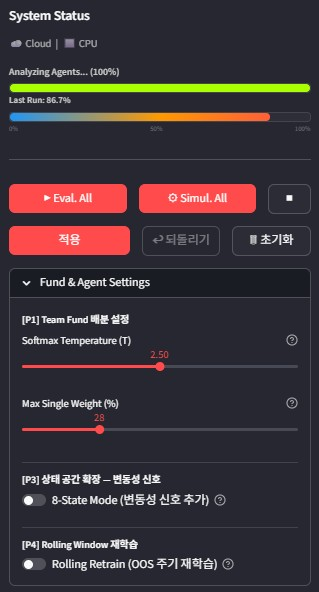
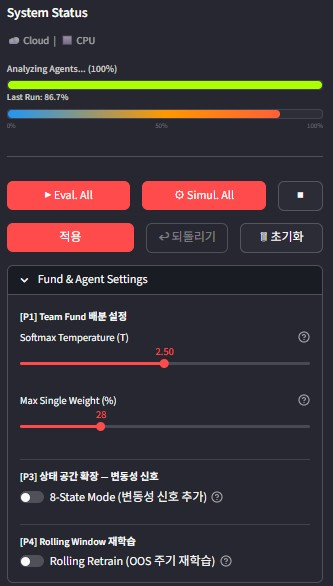
Captures, Readme 수정

diff --git a/README.md b/README.md
@@ -6,6 +6,17 @@
 
 ---
 
+### RL 포트폴리오 성과 모니터링 대시보드 (웹 앱 전체 화면)
+
+![전체화면창](Captures/전체화면창.jpg)
+
+- **배포 링크** : https://task-constrained-rl-coldstartysv1-1-azz5zvkw3zr9he2qcx2pze.streamlit.app/
+- 좌측 사이드바에서 전역 하이퍼파라미터(학습률·감가율·탐색률·시드 등)와 Fund 배분 설정(Softmax Temperature, Max Single Weight)을 일괄 제어하고, **Eval. All / Simul. All** 버튼으로 6개 멤버 에이전트를 동시에 실행할 수 있다.
+- 상단 메인 영역의 **Master Fund Portfolio Report**는 멤버별 자본 배분 도넛 차트·Vanilla vs STATIC 수익 비교 막대 차트·전체 누적수익률 라인 차트(Team Fund: +43.40%)를 한눈에 제공하며, **Portfolio Alpha Strategy Report** 테이블에서 STATIC·Vanilla·Alpha(Gap)·MDD·Score·Weight%를 종목별로 비교할 수 있다.
+- 하단 **Portfolio Managers** 섹션은 멤버별로 누적수익 비교 차트, Trial History 통계 분석(Return Distribution·시드별 성과 표), Agent Decision Analysis(BUY/CASH 행동 빈도 + 일별 수익 테이블)를 독립적으로 제공하며, 웹 접속 시 저장된 `config.py` 파라미터로 **자동 Run Evaluation이 즉시 실행**된다.
+
+---
+
 ## 저작권
 
 본 저장소에 포함된 코드 및 모든 출력 이미지 결과물은 저작권법에 의해 보호됩니다.
@@ -138,17 +149,59 @@ Python 3.11 (runtime.txt 기준)
 pip install -r requirements.txt
 streamlit run app.py
 ```
+#### ⭐Alpha Vantage API Key 및 기타 보안 설정
 
-#### Streamlit Cloud 배포 (웹 공개)
+Streamlit Cloud 배포 시 API 키 등 민감 정보는 **Secrets** 기능으로 안전하게 관리한다.
+
+**API 키 발급 방법**
+1. [https://www.alphavantage.co/support/#](https://www.alphavantage.co/support/#) 접속
+2. **"GET YOUR FREE API KEY TODAY"** 클릭
+3. 이메일 주소 입력 후 즉시 발급 (무료, 회원가입 불필요)
+4. 발급된 키를 아래 `alpha_vantage` 값에 입력 (`"#####"` 교체)
+
+**보안 주의**
+- `secrets.toml` 파일은 `.gitignore`에 포함되어 GitHub에 업로드되지 않는다.
+- Streamlit Cloud 배포 시: 앱 설정 → **Secrets** 메뉴에 동일 내용 입력
+- 코드에서 접근: `st.secrets["api_keys"]["alpha_vantage"]`
+
+`.streamlit/secrets.toml` 파일 형식:
+
+#### ⭐Streamlit Cloud 배포 (웹 공개)
 
 GitHub 저장소와 연동하여 별도 서버 없이 웹에 공개할 수 있다.
 
 1. [share.streamlit.io](https://share.streamlit.io/) 에 접속 후 **GitHub 계정으로 로그인**
 2. **"New app"** 클릭 → Repository / Branch / Main file (`app.py`) 선택
-3. **"Deploy!"** 클릭 → 자동 빌드 완료 후 공개 URL 발급 (`https://[앱명].streamlit.app`)
-4. 이후 `main` 브랜치에 `git push` 할 때마다 자동으로 앱이 재배포된다.
+3. 세로 점3개 클릭 -> Settings -> App settings -> General -> Python version을 VScode에서 사용중인 Python 버전과 같도록 선택. 예: 3.12
+4. 세로 점3개 클릭 -> Settings ->App settings -> Secrets 에서 ' alpha_vantage = "발급받은 API 키입력" ' -> Save changes
+5. **"Deploy!"** 클릭 → 자동 빌드 완료 후 공개 URL 발급 (`https://[앱명].streamlit.app`)
+6. 이후 `main` 브랜치에 `git push` 할 때마다 자동으로 앱이 재배포된다.
+7. 에러 또는 로딩이 길어지는 등의 경우, 세로 점3개 클릭 -> Reboot 클릭 or 웹 새로 고침.
 
 > **필수 파일**: `requirements.txt` (패키지 목록), `runtime.txt` (Python 버전) — 이미 포함됨.
+
+
+
+```toml
+# Alpha Vantage API Key 및 기타 보안 설정
+# ============================================================
+#
+# [API 키 발급 방법]
+#   1. https://www.alphavantage.co/support/# 접속
+#   2. "GET YOUR FREE API KEY TODAY" 클릭
+#   3. 이메일 주소 입력 후 즉시 발급 (무료, 회원가입 불필요)
+#   4. 발급된 키를 아래 alpha_vantage 값에 입력 ("####" 교체)
+#
+# [보안 주의]
+#   - 이 파일은 .gitignore에 포함되어 GitHub에 업로드되지 않습니다.
+#   - Streamlit Cloud 배포 시: 앱 설정 → Secrets 메뉴에 동일 내용 입력
+#   - 코드에서 접근: st.secrets["api_keys"]["alpha_vantage"]
+#
+# ============================================================
+
+[api_keys]
+alpha_vantage = "#####"
+```
 
 #### Cloud 환경에서의 시뮬레이션 및 Run Evaluation
 
@@ -997,7 +1050,32 @@ Task-Constrained-RL-ColdStart_YS_v1-1/
 
 ![전체화면창](Captures/전체화면창.jpg)
 
-**설명**: Streamlit 웹 앱의 전체 레이아웃. 상단 사이드바(Eval.All / Simul.All / Fallback), 중앙 6개 멤버 섹션(파라미터 패널 + 4개 차트), 하단 팀 포트폴리오 대시보드로 구성된다. 웹 접속 시 저장된 config.py 파라미터로 자동 평가가 실행된다.
+**설명**: "Chainers Master Fund: Performance Monitoring Dashboard" 타이틀의 Streamlit 웹 앱 전체 레이아웃.
+
+**좌측 사이드바**
+- **System Status**: Cloud/CPU 환경 표시, 에이전트 분석 진행률 바, 마지막 수익률 실시간 표시
+- **Eval. All / Simul. All** 버튼 + **적용 / +전원리 / 초기화** 버튼으로 전체 멤버 일괄 제어
+- **Fund & Agent Settings 패널**: [P1] Softmax Temperature, Max Single Weight(%), [P2] 8-State Mode 토글, [P3] Rolling Retrain(OOS 주기 재학습) 토글
+- **Fallback Parameters / System Parameters**: Timeframe(1day), Trading Days(330), Train Episodes, Frame Speed, Base Seed(2026), Auto Run Count(6), Sim Min Steps(20), Sim Step Mult(6)
+- **Active Agents**: Vanilla RL / STATIC RL 활성화 토글
+- **RL Algorithm**: STATIC 드롭다운 선택, **RL Hyperparameters**: Learning Rate, Discount Factor(γ), STATIC ε, Vanilla ε 슬라이더
+
+**상단 메인 — Master Fund Portfolio Report**
+- **도넛 차트**: 6개 멤버별 자본 배분 비중 (Total Capital 9.93$)
+- **막대 차트**: Vanilla vs STATIC RL 최종 수익($) 비교
+- **누적 수익률 라인 차트**: 전 멤버 STATIC RL 누적수익 + Team Fund 합산 곡선 (Team Fund: +43.40%)
+
+**Portfolio Alpha Strategy Report 테이블**: Member별 Stocks, Persona, Capital($), STATIC(%), Vanilla(%), Alpha(Gap), MDD, Score, Weight% 한눈에 비교
+
+**Portfolio Managers (Independent RL Labs) — 멤버별 섹션 (Member 1 예시)**
+- Persona 탭 (ASV / PAV / PAS 등 + 실시간 자동매매 뱃지), 종목 태그(S&P 500 ETF)
+- 거래 수수료 정보 아코디언, **Run Evaluation** / **Simulation** 버튼
+- **Cumulative Return Comparison 차트**: Vanilla RL / HYBRID RL / Market(Buy&Hold) 3선 비교
+- **Trial History: Statistical Analysis**: Return Distribution 히스토그램, Vanilla/STATIC 평균·범위 통계 요약, 시드별 Final Return 표
+- **Performance Metrics**: HYBRID RL vs Market·Vanilla 비교 바 차트 + 자본 성장 곡선
+- **Agent Decision Analysis**: BUY/CASH 행동 빈도 막대 차트 + 일별 액션·수익률 테이블
+
+웹 접속 시 저장된 `config.py` 파라미터로 **자동 Run Evaluation이 즉시 실행**되어 결과를 바로 확인할 수 있다.
 
 ---
 
@@ -1006,13 +1084,50 @@ Task-Constrained-RL-ColdStart_YS_v1-1/
 ![Fund Agent Settings 1](Captures/Fund%20Agent%20Settings1.jpg)
 ![Fund Agent Settings 2](Captures/Fund%20Agent%20Settings2.jpg)
 
-**설명**: 사이드바 내 팀 펀드 배분 설정 패널.
+**설명**: 사이드바 상단 제어 패널 및 전역 하이퍼파라미터 설정 영역.
 
-- **[P1] Softmax Temperature (T = 2.50)**: 멤버 간 자본 배분의 균등도 제어. 높을수록 성과 차이를 무시하고 균등 배분.
-- **[P1] Max Single Weight (28%)**: 단일 멤버의 최대 포트폴리오 비중 상한. 특정 멤버 독점 방지.
-- **[P2] 정책 캐시 (자동)**: Run Evaluation 완료 후 학습된 theta(정책 행렬)를 자동 저장. State Analysis Dashboard의 Explainable RL 시각화에 활용 (별도 UI 없음).
-- **[P3] 8-State Mode (변동성 신호 추가)**: 전역 활성화 시 모든 종목에 8상태 강제 적용 (현재 비활성 — per-stock 설정 사용).
-- **[P4] Rolling Retrain (OOS 주기 재학습)**: 전역 활성화 시 설정 주기마다 학습 재실행 (M4·M5는 config.py에서 개별 설정).
+**System Status (최상단)**
+- Cloud | CPU 환경 표시, "Analyzing Agents... (100%)" 진행 바, "Last Run: 86.7%" 수익률 바 실시간 표시
+
+**버튼 행**
+- **▶ Eval. All**: 모든 멤버 Run Evaluation 일괄 실행 | **◎ Simul. All**: 전체 멤버 Simulation 일괄 실행 | **■**: 실행 중단
+- **적용**: 변경된 파라미터 일괄 적용 | **⇦ 되돌리기**: 직전 스냅샷으로 롤백 | **초기화**: 전체 파라미터 기본값 복원
+
+**Fund & Agent Settings 패널**
+
+- **[P1] Team Fund 배분 설정**
+  - **Softmax Temperature (T = 2.50)**: 멤버 간 자본 배분의 균등도 제어. 값이 높을수록 성과 차이를 무시하고 균등 배분.
+  - **Max Single Weight (% = 28)**: 단일 멤버의 최대 포트폴리오 비중 상한. 특정 멤버 자본 독점 방지.
+- **[P3] 상태 공간 확장 – 변동성 신호**
+  - **8-State Mode (변동성 신호 추가)**: 전역 활성화 시 모든 종목에 8상태 강제 적용 (현재 비활성 — per-stock 개별 설정 사용).
+- **[P4] Rolling Window 재학습**
+  - **Rolling Retrain (OOS 주기 재학습)**: 전역 활성화 시 설정 주기마다 학습 재실행 (현재 비활성 — M4·M5는 config.py에서 개별 설정).
+
+**Fallback Parameters 패널 (System Parameters — ☑ 체크한 항목만 일괄 적용)**
+
+| 파라미터 | 현재값 | 설명 |
+|----------|--------|------|
+| Timeframe | 1 day | 데이터 봉 단위 |
+| Trading Days | 300 | 평가 기간(봉 수) |
+| Train Episodes | 150 | RL 학습 에피소드 수 |
+| Frame Speed (sec) | 0.03 | 시뮬레이션 프레임 간격 |
+| Base Seed | 2026 | 난수 시드 기준값 |
+| Auto Run Count | 6 | 파라미터 탐색 반복 횟수 |
+| Sim Min Steps | 20 | 시뮬레이션 최소 스텝 수 |
+| Sim Step Mult. | 6 | 시뮬레이션 스텝 배수 |
+| Active Agents | Vanilla RL, STATIC RL | 활성화할 에이전트 종류 |
+| RL Algorithm | STATIC | 전역 알고리즘 선택 |
+
+**RL Hyperparameters (STATIC RL: α / γ / ε(S) \| Vanilla RL: ε(V))**
+
+| 파라미터 | 현재값 | 설명 |
+|----------|--------|------|
+| Learning Rate (α) | 0.010 | 정책 파라미터 갱신 폭 |
+| Discount Factor (γ) | 0.95 | 미래 보상 할인율 |
+| STATIC ε | 0.08 | STATIC RL 탐색률 |
+| Vanilla ε | 0.10 | Vanilla Q-Learning 탐색률 |
+
+각 항목의 체크박스를 선택한 후 **적용** 버튼을 누르면 체크된 파라미터만 모든 멤버에 일괄 적용된다.
 
 ---
 
